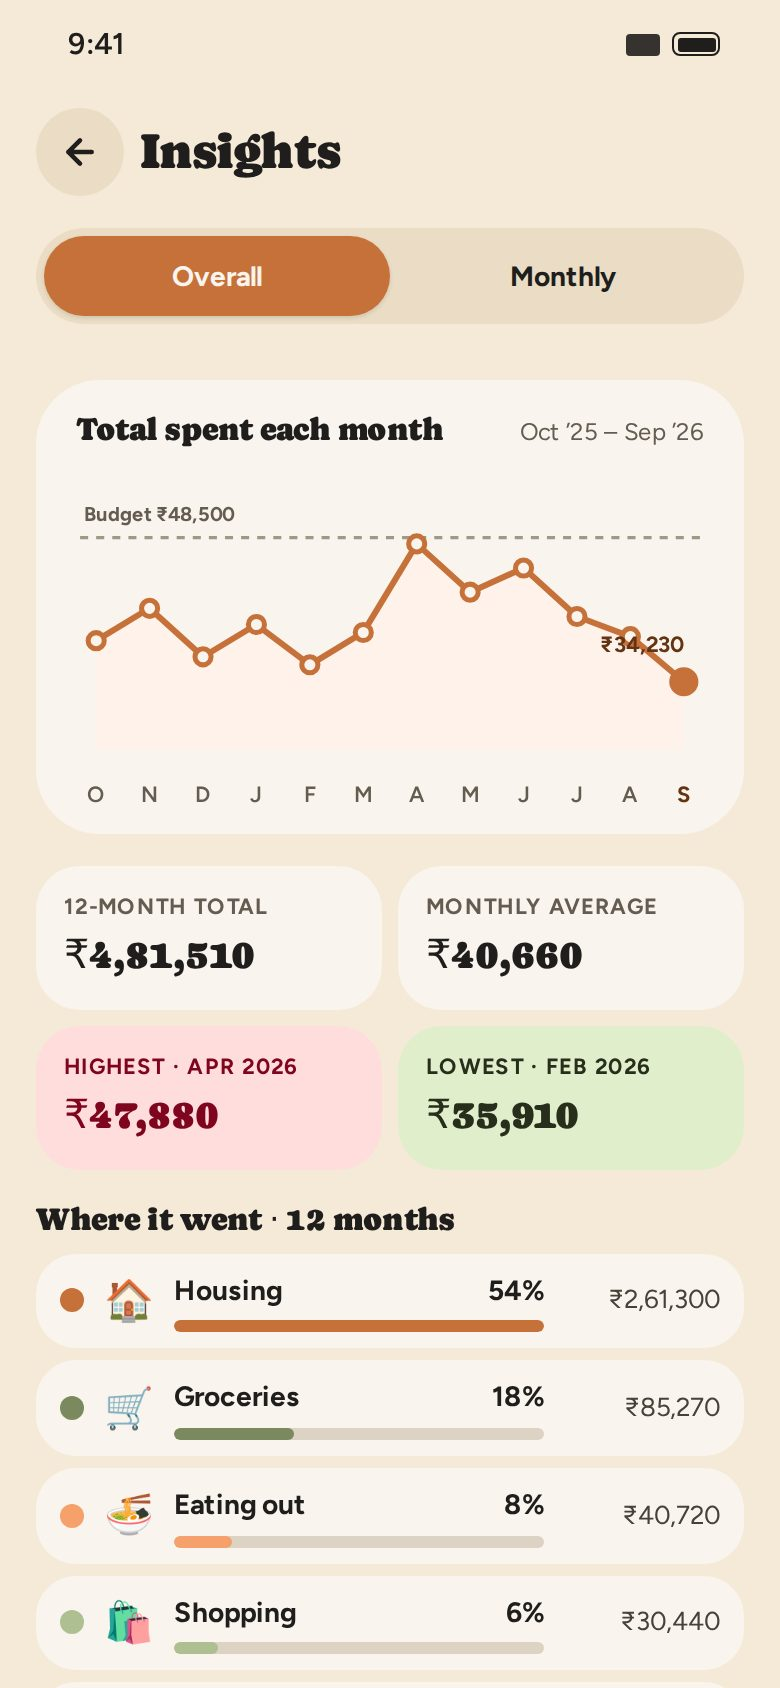
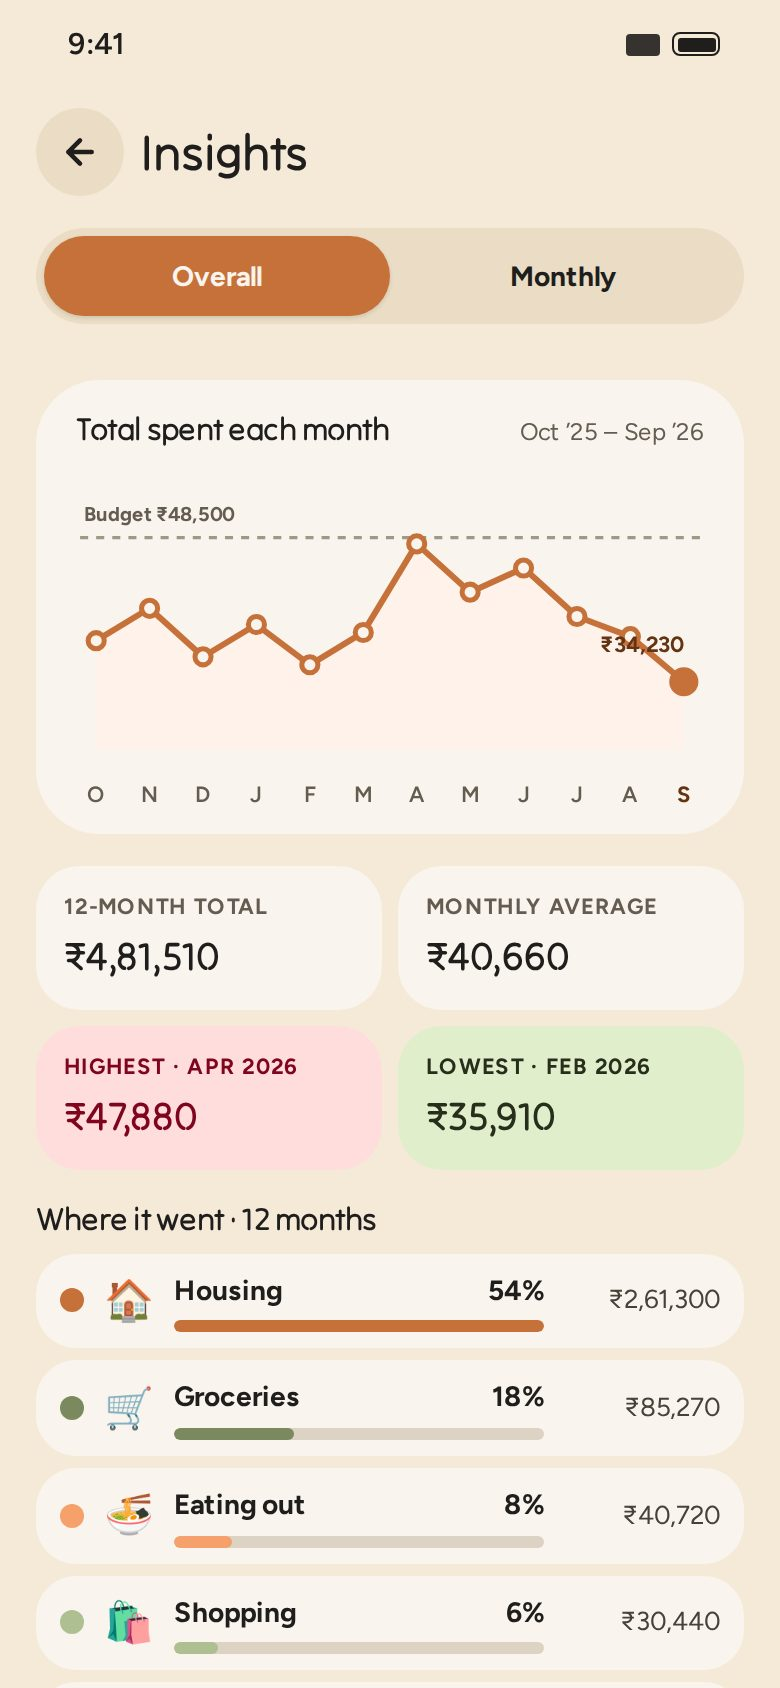
Update heading typeface
Claude-Session: https://claude.ai/code/session_01VxxYzfe6jnepoinJ7sz8A9

diff --git a/app/src/organic.css b/app/src/organic.css
@@ -1,5 +1,5 @@
 /* Organic — design-system tokens and component classes. This file is the source of truth for the system's look; retune it here and see readme.md. */
-@import url('https://fonts.googleapis.com/css2?family=Caprasimo:wght@400&family=Figtree:wght@400;600;700&display=swap');
+@import url('https://fonts.googleapis.com/css2?family=Tilt+Neon&family=Figtree:wght@400;600;700&display=swap');
 
 :root {
   --color-bg: #f5ead8;
@@ -41,7 +41,7 @@
   --color-accent-2-800: #3d472b;
   --color-accent-2-900: #272e1b;
 
-  --font-heading: "Caprasimo", system-ui, sans-serif;
+  --font-heading: "Tilt Neon", system-ui, sans-serif;
   --font-heading-weight: 400;
   --font-body: "Figtree", system-ui, sans-serif;
 
